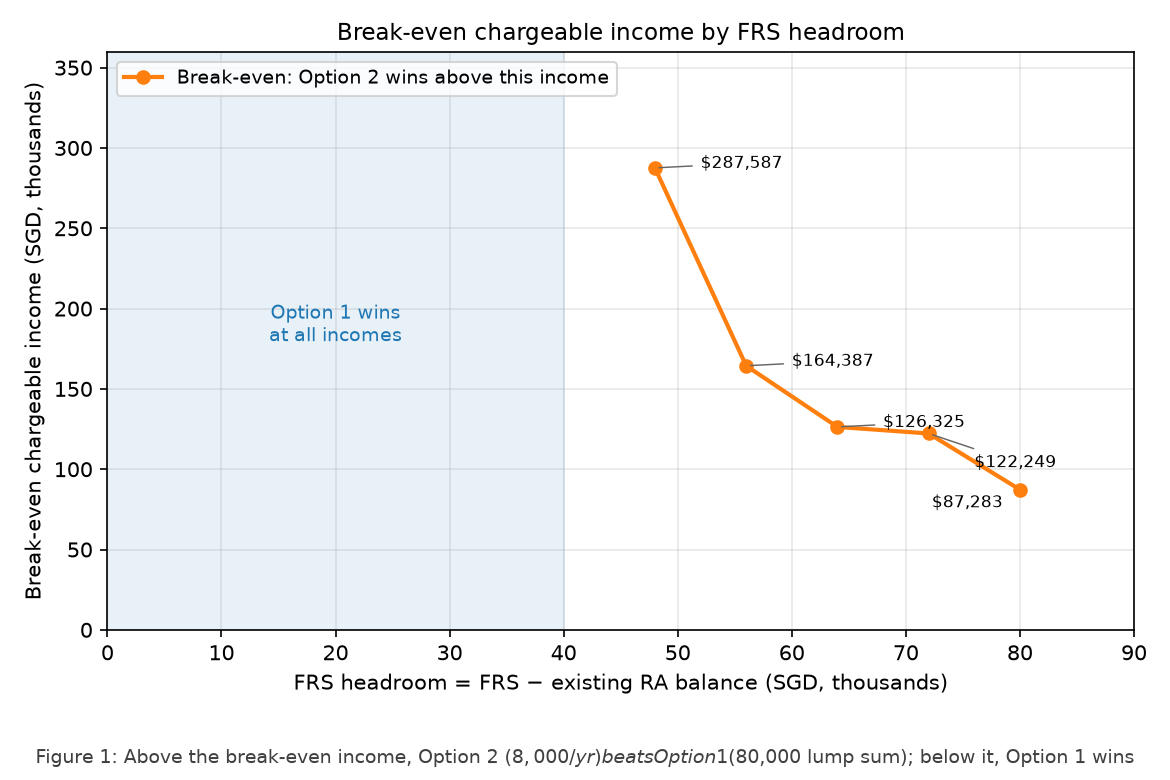
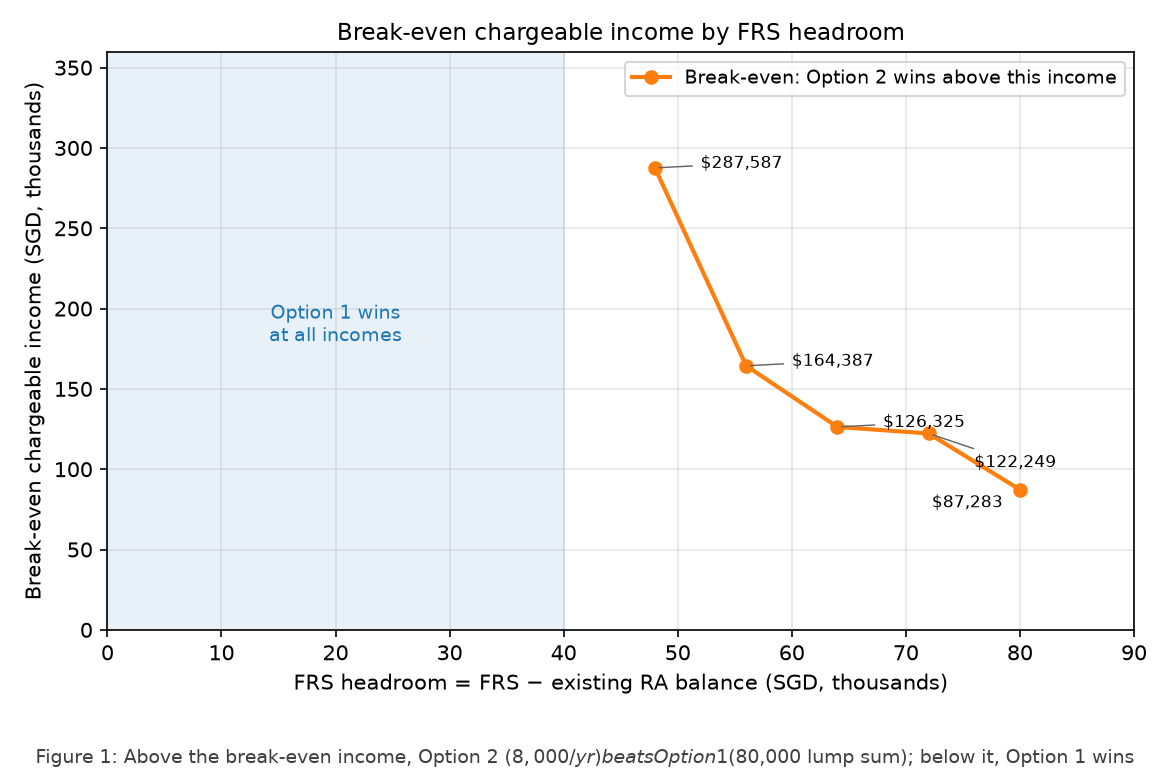
Figure 1: move legend to upper-right, aligned with the side where the break-even line sits

Changed region(s): [[0.0923, 0.0615, 0.9538, 0.1231]]

diff --git a/make_crossover.py b/make_crossover.py
@@ -135,7 +135,9 @@ def plot_crossover_by_headroom(out, args, sensitivity):
     ax.set_ylabel("Break-even chargeable income (SGD, thousands)")
     ax.set_title("Break-even chargeable income by FRS headroom",
                  fontsize=11)
-    ax.legend(fontsize=9, loc="upper left")
+    # the line sits on the right of the chart, so anchor the legend there
+    # too; the upper-left corner sits above the shaded Option-1 region
+    ax.legend(fontsize=9, loc="upper right")
     ax.grid(alpha=0.3)
     fig.tight_layout(rect=[0, 0.08, 1, 1])
     fig.text(0.5, 0.015,
